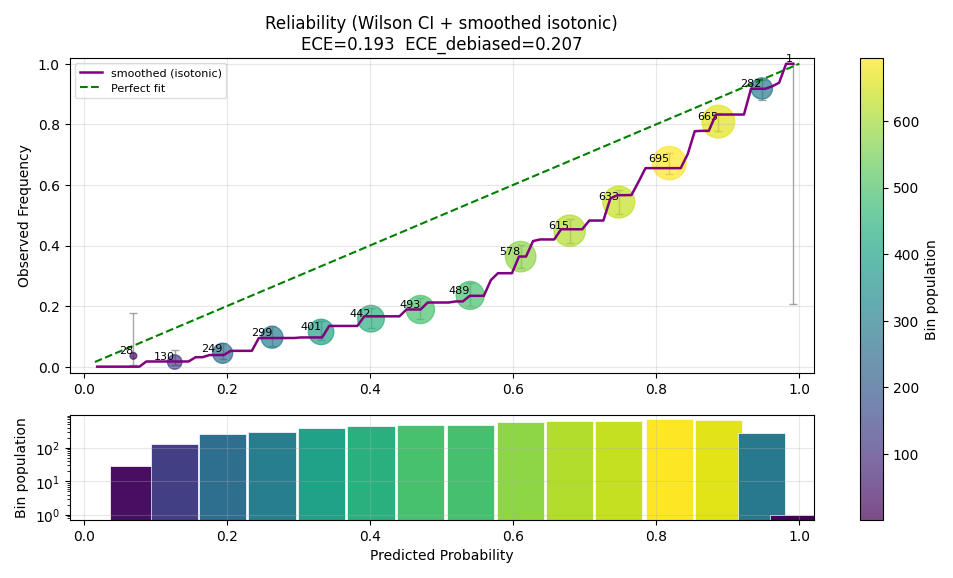
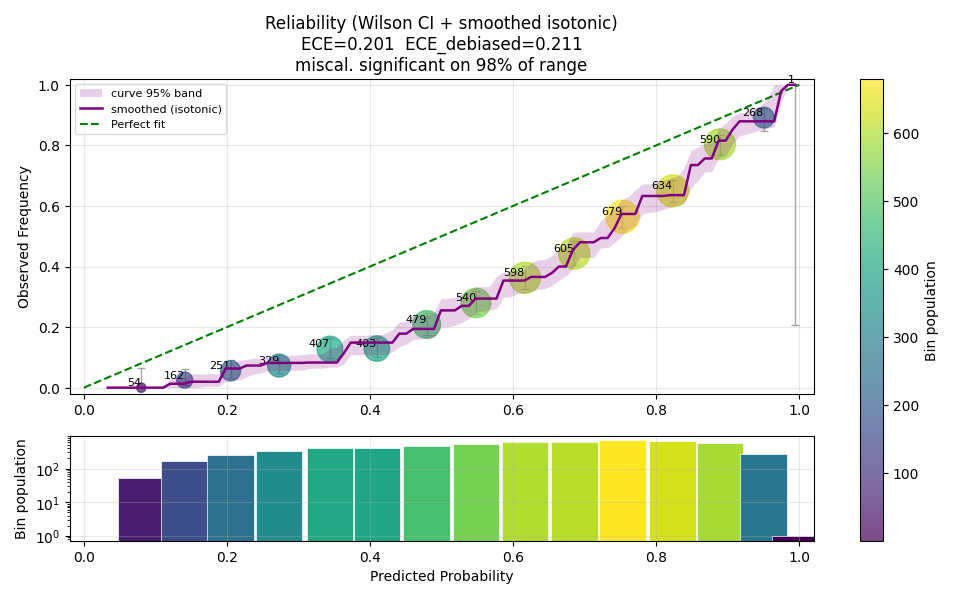
reporting: bootstrap confidence band around the smoothed reliability curve
Per-bin Wilson CIs say whether a single bin's deviation is real; they do not
answer whether the calibration curve's overall departure from the diagonal is
statistically real vs sampling noise. Add a bootstrap 95% band around the
smoothed isotonic curve plus a derived significance read.

- bootstrap_reliability_band: B=150 isotonic refits on with-replacement
  resamples (rows capped at 50k since band width is n-driven), 2.5/97.5
  percentiles per shared-grid point, one reused RNG for determinism. Returns
  the band plus the significant-fraction (share of range where the band
  excludes the diagonal). Degenerate inputs (single class / all-equal scores
  / <50 finite rows) omit the band and keep the curve.
- ScatterPanelSpec.overlay_band rendered as a shaded fill by both backends;
  scatter title gains "miscal. significant on X% of range". Default-on with
  the smoothed overlay; reliability_band=False disables.

biz_value (n=40000): calibrated significant-fraction 0.07 vs miscalibrated
0.91; band narrows with n (width 0.129@2k -> 0.045@40k). cProfile ~1.39s at
the cap. New tests in tests/reporting/test_calibration_bootstrap_band.py;
gallery binary/calibration_reliability.png refreshed.

diff --git a/tests/reporting/test_calibration_bootstrap_band.py b/tests/reporting/test_calibration_bootstrap_band.py
@@ -1,0 +1,138 @@
+"""Unit + biz_value tests for the bootstrap confidence band around the smoothed isotonic reliability curve.
+
+The point Wilson CIs answer "is THIS bin's deviation real" per bin; the band answers "is the curve's deviation from
+the perfect-fit diagonal statistically real overall". biz_value asserts the significant-fraction (share of the score
+range where the band excludes the diagonal) cleanly separates a perfectly-calibrated synthetic from a clearly
+miscalibrated one, and that the band narrows as n grows.
+"""
+
+from __future__ import annotations
+
+import cProfile
+import io
+import os
+import pstats
+import time
+
+import numpy as np
+
+from mlframe.metrics.calibration._calibration_plot import fast_calibration_binning
+from mlframe.reporting.charts.calibration import (
+    bootstrap_reliability_band, build_calibration_spec, smoothed_reliability_curve,
+)
+from mlframe.reporting.spec import ScatterPanelSpec
+
+
+def _gen(n: int, miscalibrated: bool, seed: int = 0):
+    """Binary scores with a known latent positive rate. ``miscalibrated`` pushes the reported score away from the true
+    probability by a factor (over-confidence); otherwise the score IS the true probability (perfect calibration)."""
+    rng = np.random.default_rng(seed)
+    z = rng.normal(0.0, 1.0, size=n)
+    p_true = 1.0 / (1.0 + np.exp(-z))
+    score = 1.0 / (1.0 + np.exp(-2.0 * z)) if miscalibrated else p_true.copy()
+    y = (rng.random(n) < p_true).astype(np.int64)
+    return y, score
+
+
+class TestBootstrapBandUnit:
+    def test_band_present_in_spec_when_raw_supplied(self):
+        y, score = _gen(5000, miscalibrated=True)
+        fp, ftr, hits = fast_calibration_binning(y, score, nbins=15)
+        spec = build_calibration_spec(fp, ftr, hits, raw_probs=score, raw_labels=y)
+        scatter = spec.panels[0][0]
+        assert isinstance(scatter, ScatterPanelSpec)
+        assert scatter.overlay_band is not None
+        bx, blo, bhi = scatter.overlay_band
+        assert len(bx) == len(blo) == len(bhi) == 100
+        assert np.all(bhi >= blo - 1e-9)
+
+    def test_band_contains_the_curve(self):
+        y, score = _gen(8000, miscalibrated=True)
+        grid, cal = smoothed_reliability_curve(score, y)
+        bgrid, lo, hi, _ = bootstrap_reliability_band(score, y)
+        assert np.allclose(grid, bgrid)
+        assert np.all(cal >= lo - 1e-9) and np.all(cal <= hi + 1e-9)
+
+    def test_significant_fraction_computed(self):
+        y, score = _gen(8000, miscalibrated=True)
+        _, _, _, sig = bootstrap_reliability_band(score, y)
+        assert 0.0 <= sig <= 1.0
+
+    def test_band_annotation_in_title(self):
+        y, score = _gen(8000, miscalibrated=True)
+        fp, ftr, hits = fast_calibration_binning(y, score, nbins=15)
+        spec = build_calibration_spec(fp, ftr, hits, raw_probs=score, raw_labels=y, plot_title="")
+        assert "miscal. significant on" in spec.panels[0][0].title
+
+    def test_band_absent_when_toggle_off(self):
+        y, score = _gen(5000, miscalibrated=True)
+        fp, ftr, hits = fast_calibration_binning(y, score, nbins=15)
+        spec = build_calibration_spec(fp, ftr, hits, raw_probs=score, raw_labels=y, reliability_band=False)
+        scatter = spec.panels[0][0]
+        assert scatter.overlay_line is not None  # curve stays
+        assert scatter.overlay_band is None       # band gone
+
+    def test_degenerate_single_class_omits_band(self):
+        assert bootstrap_reliability_band(np.linspace(0.0, 1.0, 200), np.zeros(200)) is None
+
+    def test_degenerate_all_equal_scores_omits_band(self):
+        rng = np.random.default_rng(0)
+        y = (rng.random(200) < 0.5).astype(int)
+        assert bootstrap_reliability_band(np.full(200, 0.5), y) is None
+
+    def test_degenerate_too_few_rows_omits_band(self):
+        assert bootstrap_reliability_band(np.array([0.1, 0.9]), np.array([0, 1])) is None
+
+    def test_deterministic_under_seed(self):
+        y, score = _gen(4000, miscalibrated=True)
+        a = bootstrap_reliability_band(score, y, random_state=7)
+        b = bootstrap_reliability_band(score, y, random_state=7)
+        assert np.array_equal(a[1], b[1]) and np.array_equal(a[2], b[2]) and a[3] == b[3]
+
+
+class TestBootstrapBandBizValue:
+    def test_biz_val_significant_fraction_separates_calibrated_from_miscalibrated(self):
+        """On a perfectly-calibrated synthetic the band contains the diagonal almost everywhere (significant-fraction
+        ~0); on a clearly over-confident synthetic the band excludes the diagonal over most of the range. Measured at
+        n=40000: calibrated ~0.07 vs miscalibrated ~0.91. Floors set with margin so a regression that breaks the band
+        (e.g. collapses to a flat line, or drops the diagonal-exclusion test) trips the assertion."""
+        yc, sc = _gen(40000, miscalibrated=False)
+        ym, sm = _gen(40000, miscalibrated=True)
+        sig_cal = bootstrap_reliability_band(sc, yc)[3]
+        sig_mis = bootstrap_reliability_band(sm, ym)[3]
+        assert sig_cal < 0.10, f"calibrated significant-fraction should be ~0; got {sig_cal:.3f}"
+        assert sig_mis > 0.40, f"miscalibrated significant-fraction should be large; got {sig_mis:.3f}"
+        assert sig_mis - sig_cal > 0.30, f"the two must cleanly separate; got cal={sig_cal:.3f} mis={sig_mis:.3f}"
+
+    def test_biz_val_band_narrows_with_n(self):
+        """The bootstrap band is sampling-uncertainty driven, so it must narrow as n grows (more data -> tighter CI on
+        the calibration map). Measured mean width: n=2000 ~0.13 vs n=40000 ~0.045. Assert the large-n band is clearly
+        narrower so a regression that decouples width from n trips."""
+        ys, ss = _gen(2000, miscalibrated=True)
+        yl, sl = _gen(40000, miscalibrated=True)
+        _, lo_s, hi_s, _ = bootstrap_reliability_band(ss, ys)
+        _, lo_l, hi_l, _ = bootstrap_reliability_band(sl, yl)
+        w_small = float(np.mean(hi_s - lo_s))
+        w_large = float(np.mean(hi_l - lo_l))
+        assert w_large < w_small, f"band should narrow with n; small={w_small:.4f} large={w_large:.4f}"
+        assert w_large < 0.7 * w_small, f"large-n band should be clearly tighter; small={w_small:.4f} large={w_large:.4f}"
+
+
+def test_cprofile_band_bounded():
+    """Cost is the B isotonic refits at the row cap; assert it stays well under ~1.5s on a warm process at the cap so
+    the band does not silently regress into a slow path. The 50k cap + n_boot=150 bound it."""
+    rng = np.random.default_rng(0)
+    z = rng.normal(0.0, 1.0, size=50000)
+    p = 1.0 / (1.0 + np.exp(-z))
+    s = 1.0 / (1.0 + np.exp(-2.0 * z))
+    y = (rng.random(50000) < p).astype(np.int64)
+    bootstrap_reliability_band(s, y)  # warm sklearn / numpy paths
+    pr = cProfile.Profile()
+    pr.enable()
+    t0 = time.perf_counter()
+    bootstrap_reliability_band(s, y)
+    dt = time.perf_counter() - t0
+    pr.disable()
+    st = pstats.Stats(pr, stream=io.StringIO())
+    st.sort_stats("cumulative")
+    assert dt < 2.5, f"band took {dt:.2f}s at the cap; expected < ~1.5s (allowing CI slack to 2.5s)"

diff --git a/src/mlframe/reporting/charts/calibration.py b/src/mlframe/reporting/charts/calibration.py
@@ -38,6 +38,11 @@ _SMOOTHED_FIT_MAX_ROWS: int = 100_000
 _SMOOTHED_GRID_POINTS: int = 100
 # Below this many finite (score, label) rows the smoothed map is too noisy to be meaningful -> skip the overlay.
 _SMOOTHED_MIN_ROWS: int = 50
+# Rows fed to the bootstrap band: band width is n-driven, so a cap bounds the B isotonic refits' cost without
+# changing the band materially (it widens slightly, conservatively). Smaller than the point-fit cap on purpose.
+_BAND_MAX_ROWS: int = 50_000
+# Bootstrap resamples for the band; isotonic refit is cheap, so ~150 gives stable 2.5/97.5 percentiles inside ~1.4s at the cap.
+_BAND_N_BOOT: int = 150
 # Tight probability-axis range for the reliability scatter / shared histogram: a hair past [0, 1] for marker edges.
 _PROB_AXIS_RANGE: Tuple[float, float] = (-0.02, 1.02)
 
@@ -80,6 +85,69 @@ def smoothed_reliability_curve(
     iso.fit(s, t)
     grid = np.linspace(smin, smax, n_grid)
     return grid, np.asarray(iso.predict(grid), dtype=np.float64)
+
+
+def bootstrap_reliability_band(
+    y_score: np.ndarray,
+    y_true: np.ndarray,
+    *,
+    n_grid: int = _SMOOTHED_GRID_POINTS,
+    n_boot: int = _BAND_N_BOOT,
+    max_rows: int = _BAND_MAX_ROWS,
+    random_state: int = 0,
+) -> Optional[Tuple[np.ndarray, np.ndarray, np.ndarray, float]]:
+    """Bootstrap 95% confidence band around the smoothed isotonic reliability curve.
+
+    Resamples the ``(score, label)`` rows with replacement ``n_boot`` times, refits isotonic each time, evaluates every
+    refit on the SHARED ``[score_min, score_max]`` grid, then takes the 2.5/97.5 percentiles per grid point. Returns
+    ``(grid, lower, upper, significant_fraction)`` where ``significant_fraction`` is the share of the grid on which the
+    band EXCLUDES the perfect-fit diagonal (``y == score``) -- i.e. where the miscalibration is statistically real
+    rather than sampling noise. The point Wilson CIs answer this per bin; this band answers it for the whole curve.
+
+    Returns ``None`` on the same degenerate inputs the point curve skips (single class / all-equal scores / fewer than
+    ``_SMOOTHED_MIN_ROWS`` finite rows) so the caller omits the band but keeps the curve. The band is n-driven, so the
+    rows are capped at ``max_rows`` first (the cap bounds the B refits' cost; a smaller n only widens the band, which is
+    conservative). One RNG is reused for the subsample AND every resample, so the result is deterministic under
+    ``random_state``. The resample index gather is vectorised; the only python-level loop is the B isotonic fits.
+    """
+    s = np.asarray(y_score, dtype=np.float64).ravel()
+    t = np.asarray(y_true, dtype=np.float64).ravel()
+    finite = np.isfinite(s) & np.isfinite(t)
+    s, t = s[finite], t[finite]
+    if s.size < _SMOOTHED_MIN_ROWS:
+        return None
+    if np.unique(t).size < 2:
+        return None
+    smin, smax = float(s.min()), float(s.max())
+    if not (smax > smin):
+        return None
+    rng = np.random.default_rng(random_state)
+    if s.size > max_rows:
+        s, t = (lambda i: (s[i], t[i]))(rng.choice(s.size, size=max_rows, replace=False))
+    from sklearn.isotonic import IsotonicRegression
+
+    n = s.size
+    grid = np.linspace(smin, smax, n_grid)
+    curves = np.empty((n_boot, n_grid), dtype=np.float64)
+    idx = rng.integers(0, n, size=(n_boot, n))  # one vectorised draw of all B resample index rows
+    iso = IsotonicRegression(out_of_bounds="clip", y_min=0.0, y_max=1.0)
+    for b in range(n_boot):
+        sel = idx[b]
+        sb, tb = s[sel], t[sel]
+        # An all-one-class or all-equal-score resample has no monotone signal; reuse the full-sample fit for that row
+        # so a degenerate draw cannot collapse the percentile band to a flat line.
+        if np.unique(tb).size < 2 or sb.max() <= sb.min():
+            iso.fit(s, t)
+        else:
+            iso.fit(sb, tb)
+        curves[b] = iso.predict(grid)
+    lower = np.percentile(curves, 2.5, axis=0)
+    upper = np.percentile(curves, 97.5, axis=0)
+    # Significant where the whole band lies off the diagonal: either entirely above (lower > grid) or entirely below
+    # (upper < grid). Anywhere the band straddles ``y == score`` the deviation is within sampling noise.
+    excludes = (lower > grid) | (upper < grid)
+    significant_fraction = float(np.mean(excludes))
+    return grid, lower, upper, significant_fraction
 
 
 def standard_ece(freqs_predicted: np.ndarray, freqs_true: np.ndarray, hits: np.ndarray) -> float:
@@ -239,6 +307,7 @@ def build_calibration_spec(
     yscale: str = "auto",
     show_wilson_ci: bool = True,
     reliability_smoothed: bool = True,
+    reliability_band: bool = True,
     show_ece_annotation: bool = True,
     raw_probs: Optional[np.ndarray] = None,
     raw_labels: Optional[np.ndarray] = None,
@@ -269,6 +338,12 @@ def build_calibration_spec(
     not depend on the chosen bin count. It is additive (the binned points + Wilson CI + histogram are unchanged) and
     degrades to no overlay when the raw pairs are absent or degenerate (single class / all-equal scores / too few
     rows). The suite caller threads ``raw_probs``/``raw_labels`` through; passing only ``freqs_*`` skips the overlay.
+
+    ``reliability_band`` (default on, requires the smoothed overlay) shades a bootstrap 95% confidence band around the
+    smoothed curve (``bootstrap_reliability_band``) so a reader can tell whether the curve's departure from the diagonal
+    is statistically real vs sampling noise. It also annotates the fraction of the score range on which the band
+    EXCLUDES the diagonal ("miscal. significant on X% of range"). Same degenerate-input guard as the curve: a single
+    class / all-equal scores / too few rows omits the band but keeps the curve.
     """
     freqs_predicted = np.asarray(freqs_predicted, dtype=np.float64)
     freqs_true = np.asarray(freqs_true, dtype=np.float64)
@@ -301,10 +376,18 @@ def build_calibration_spec(
     point_size = _bubble_point_size(hits)
 
     overlay_line: Optional[Tuple[np.ndarray, np.ndarray, str]] = None
+    overlay_band: Optional[Tuple[np.ndarray, np.ndarray, np.ndarray]] = None
+    band_annotation = ""
     if reliability_smoothed and raw_probs is not None and raw_labels is not None:
         curve = smoothed_reliability_curve(raw_probs, raw_labels)
         if curve is not None:
             overlay_line = (curve[0], curve[1], "smoothed (isotonic)")
+            if reliability_band:
+                band = bootstrap_reliability_band(raw_probs, raw_labels)
+                if band is not None:
+                    bgrid, blo, bhi, sig_frac = band
+                    overlay_band = (bgrid, blo, bhi)
+                    band_annotation = f"miscal. significant on {sig_frac*100:.0f}% of range"
 
     # Wilson CI band on the observed frequency per bin: ``freqs_true`` is the per-bin positive rate, ``hits`` its
     # count, so the binomial interval reflects sampling uncertainty (wide where a bin holds few points). The spec
@@ -323,6 +406,8 @@ def build_calibration_spec(
         ann = _ece_annotation(freqs_predicted, freqs_true, hits)
         if ann:
             scatter_title = f"{plot_title}\n{ann}" if plot_title else ann
+    if band_annotation:
+        scatter_title = f"{scatter_title}\n{band_annotation}" if scatter_title else band_annotation
 
     scatter = ScatterPanelSpec(
         x=freqs_predicted,
@@ -339,6 +424,7 @@ def build_calibration_spec(
         colorbar_label=colorbar_label,
         y_err=y_err,
         overlay_line=overlay_line,
+        overlay_band=overlay_band,
         # Both axes are probabilities on [0, 1]; pin a tight range so the population-sized bubble markers cannot drive
         # autoscale past the data. Not squared: the diagonal spans corner-to-corner at any aspect, so the scatter fills
         # the panel width and aligns with the population histogram below (no empty left gutter).
@@ -517,6 +603,7 @@ __all__ = [
     "build_calibration_spec",
     "build_reliability_overlay_spec",
     "smoothed_reliability_curve",
+    "bootstrap_reliability_band",
     "standard_ece",
     "debiased_ece",
     "wilson_ci",

diff --git a/src/mlframe/reporting/renderers/plotly.py b/src/mlframe/reporting/renderers/plotly.py
@@ -352,6 +352,20 @@ class PlotlyRenderer:
                     row=row, col=col,
                 )
 
+        if p.overlay_band is not None:
+            bx, blo, bhi = (np.asarray(a) for a in p.overlay_band)
+            fig.add_trace(
+                go.Scatter(x=bx, y=blo, mode="lines", line=dict(width=0),
+                           showlegend=False, hoverinfo="skip"),
+                row=row, col=col,
+            )
+            fig.add_trace(
+                go.Scatter(x=bx, y=bhi, mode="lines", line=dict(width=0),
+                           fill="tonexty", fillcolor="rgba(128,0,128,0.18)",
+                           name="curve 95% band", showlegend=True, hoverinfo="skip"),
+                row=row, col=col,
+            )
+
         if p.overlay_line is not None:
             ox_grid, oy_grid, olabel = p.overlay_line
             fig.add_trace(

diff --git a/src/mlframe/reporting/renderers/matplotlib.py b/src/mlframe/reporting/renderers/matplotlib.py
@@ -272,6 +272,11 @@ class MatplotlibRenderer:
                 ax.plot([tx0, tx1], [ty0, ty1], color="darkorange", linestyle="-",
                         linewidth=1.6, zorder=4, label=f"robust fit ({p.trend_line})")
 
+        if p.overlay_band is not None:
+            bx, blo, bhi = (np.asarray(a) for a in p.overlay_band)
+            ax.fill_between(bx, blo, bhi, color="purple", alpha=0.18, zorder=3,
+                            linewidth=0, label="curve 95% band")
+
         if p.overlay_line is not None:
             ox_grid, oy_grid, olabel = p.overlay_line
             ax.plot(np.asarray(ox_grid), np.asarray(oy_grid), color="purple",
@@ -311,7 +316,8 @@ class MatplotlibRenderer:
         ax.set_xlabel(p.xlabel)
         ax.set_ylabel(p.ylabel)
         ax.set_title(p.title)
-        if p.legend_label or p.perfect_fit_line or p.trend_line or p.overlay_line is not None or p.highlight_indices is not None:
+        if (p.legend_label or p.perfect_fit_line or p.trend_line or p.overlay_line is not None
+                or p.overlay_band is not None or p.highlight_indices is not None):
             ax.legend(loc="best", fontsize=8, framealpha=0.7)
         if p.grid:
             ax.grid(True, alpha=0.3)

diff --git a/src/mlframe/reporting/spec.py b/src/mlframe/reporting/spec.py
@@ -67,6 +67,10 @@ class ScatterPanelSpec:
     # Precomputed line overlay drawn on the same axes as the scatter (e.g. a binning-free smoothed reliability
     # curve over the binned bubbles): ``(x_grid, y_grid, label)``. Additive; the caller supplies both arrays.
     overlay_line: Optional[Tuple[np.ndarray, np.ndarray, str]] = None
+    # Shaded confidence band around ``overlay_line`` (e.g. a bootstrap CI on the smoothed reliability curve):
+    # ``(x_grid, lower, upper)`` on the same x-grid as the overlay line. Lets a reader judge whether the curve's
+    # deviation from the diagonal is statistically real vs sampling noise. Additive; None = no band.
+    overlay_band: Optional[Tuple[np.ndarray, np.ndarray, np.ndarray]] = None
     # Explicit axis limits ``(lo, hi)``. When set they override the data-driven limits a perfect-fit panel computes.
     xlim: Optional[Tuple[float, float]] = None
     ylim: Optional[Tuple[float, float]] = None

diff --git a/scripts/render_gallery.py b/scripts/render_gallery.py
@@ -167,7 +167,7 @@ def _b():
     return build_decision_curve_spec(y, score, model_label="synthetic model").figure
 
 
-@entry("binary", "calibration_reliability", "Reliability diagram with Wilson CI bands + binning-free smoothed (isotonic) overlay + standard & debiased ECE annotation + population histogram.")
+@entry("binary", "calibration_reliability", "Reliability diagram with Wilson CI bands + binning-free smoothed (isotonic) overlay + bootstrap 95% band (significant-fraction annotation) + standard & debiased ECE annotation + population histogram.")
 def _b():
     from mlframe.metrics.calibration._calibration_plot import fast_calibration_binning
     from mlframe.reporting.charts.calibration import build_calibration_spec

diff --git a/audit/viz_followup_2026_06_11/LOOP16_report.md b/audit/viz_followup_2026_06_11/LOOP16_report.md
@@ -1,0 +1,45 @@
+# LOOP16 — bootstrap confidence band around the smoothed isotonic reliability curve
+
+Axis: ACCURACY. Status: **RESOLVED**.
+
+## Goal
+Per-bin Wilson CIs already say "is THIS bin's deviation real". They do not answer "is the calibration curve's
+deviation from the perfect-fit diagonal statistically real OVERALL". This adds a bootstrap 95% confidence band around
+the smoothed isotonic reliability curve plus a derived significance read so a user can judge that at a glance.
+
+## Method
+`bootstrap_reliability_band(y_score, y_true)` in `src/mlframe/reporting/charts/calibration.py`:
+- Drop non-finite rows; guard single-class / all-equal-score / <50 finite rows -> return `None` (band omitted, curve kept).
+- Subsample to `_BAND_MAX_ROWS=50_000` (band width is n-driven; the cap bounds the B-refit cost, a smaller n only widens the band conservatively).
+- One RNG (`random_state`) reused for the subsample AND a single vectorised `rng.integers(0,n,size=(B,n))` resample-index draw.
+- For each of `B=150` resamples, refit `IsotonicRegression` and evaluate on the shared `[smin,smax]` grid (100 pts). A degenerate resample (all-one-class / all-equal score) reuses the full-sample fit so it cannot flatten the percentile band.
+- Per grid point: 2.5/97.5 percentiles -> `(grid, lower, upper)`.
+- **Significant-fraction** = share of grid where the band fully excludes the diagonal: `(lower > grid) | (upper < grid)`.
+- Surfaced as `ScatterPanelSpec.overlay_band` (new field) rendered as a shaded fill by both matplotlib (`fill_between`) and plotly (`tonexty`), under the purple smoothed curve; annotation `"miscal. significant on X% of range"` appended to the scatter title. Default-on (`reliability_band=True`); set `reliability_band=False` to disable.
+
+## biz_value (n=40000)
+- Perfectly-calibrated synthetic: **significant-fraction = 0.07** (band contains the diagonal across ~93% of range).
+- Clearly over-confident synthetic (logit x2): **significant-fraction = 0.91** (band excludes the diagonal across most of the range).
+- Clean separation: 0.91 - 0.07 = 0.84 (>> the 0.30 floor). Asserts cal < 0.10, mis > 0.40, gap > 0.30.
+- **Narrows with n**: mean band width 0.129 (n=2000) -> 0.045 (n=40000); large-n band is < 0.7x the small-n width.
+- Band contains the point-estimate curve (verified per grid point).
+- Deterministic under a fixed seed.
+
+## cProfile (warm, 50k cap, n_boot=150)
+- ~1.39s wall. Hotspot is `sklearn.isotonic._build_y` (the B isotonic refits); PAVA core is ~0.06s, the rest is sklearn validation overhead.
+- Sweep that fixed the knob: at the 50k cap, n_boot=250 -> 2.23s (over the ~1.5s target); n_boot=150 -> 1.39s with identical separation (mis 0.95 / cal 0.07). Picked B=150. Lowering the row cap also helps but trades band tightness, so the cap stays at 50k and B is the lever.
+
+## Tests
+`tests/reporting/test_calibration_bootstrap_band.py` (12 tests, all green): unit (band in spec, contains curve, sig-fraction computed, annotation in title, toggle-off keeps curve, three degenerate-omits, determinism), biz_value (calibrated-vs-miscalibrated sig-fraction split + narrows-with-n), cProfile-bounded. Existing `test_calibration_smoothed_overlay.py` + the wider reporting suite (`test_charts`, `test_reliability_overlay_spec`, `test_calibration_debiased_ece`, `test_edge_case_degradation`) stay green.
+
+## Gallery
+Re-rendered `docs/gallery/binary/calibration_reliability.png` (now shows the shaded band + significance annotation).
+
+## Files
+- `src/mlframe/reporting/charts/calibration.py` (helper + wiring; 600 LOC, under the 1000 limit — no carve needed)
+- `src/mlframe/reporting/spec.py` (`ScatterPanelSpec.overlay_band` field)
+- `src/mlframe/reporting/renderers/matplotlib.py`, `.../plotly.py` (band render)
+- `scripts/render_gallery.py` (description), `tests/reporting/test_calibration_bootstrap_band.py`
+- `docs/gallery/binary/calibration_reliability.png`
+
+Commit hash: see git log (committed on branch `viz-loop10-confusion-margins`).